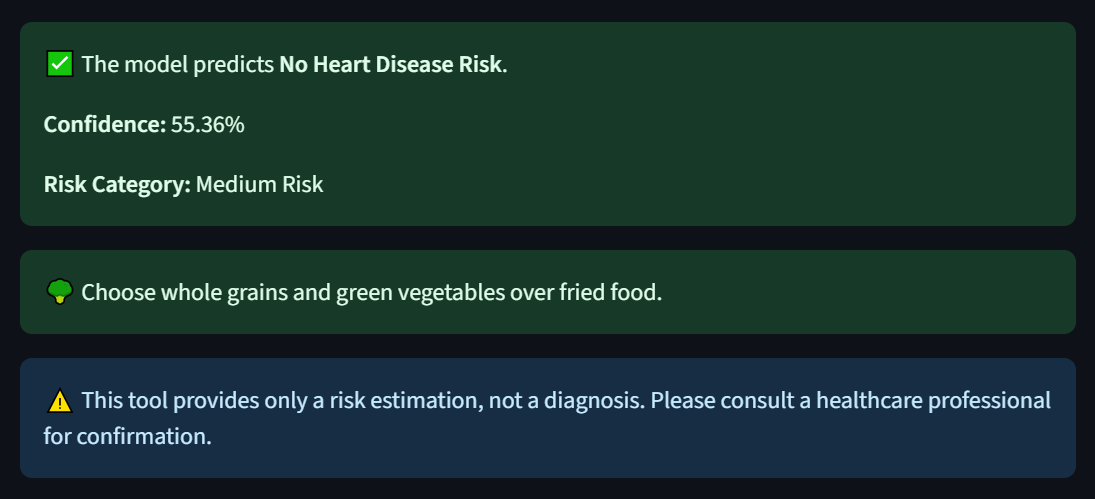
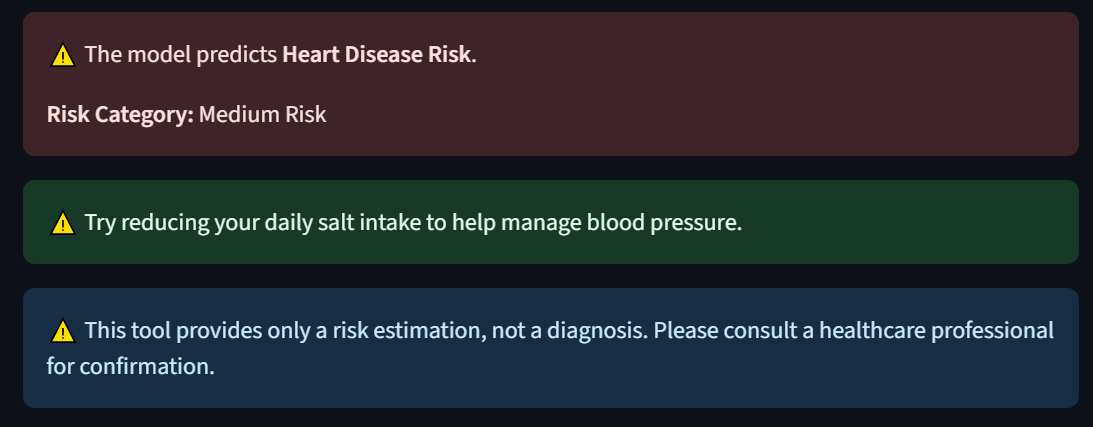
Improve the output

diff --git a/src/app.py b/src/app.py
@@ -95,11 +95,9 @@ if st.button("🔍 Predict"):
     # Professional Output
     if prediction == 1:
         st.error(f"⚠ The model predicts **Heart Disease Risk**.\n\n"
-                 f"**Confidence:** {probability*100:.2f}%\n"
                  f"\n**Risk Category:** {risk_category}")
     else:
         st.success(f"✅ The model predicts **No Heart Disease Risk**.\n\n"
-                   f"**Confidence:** {probability*100:.2f}%\n"
                    f"\n**Risk Category:** {risk_category}")
 
     
